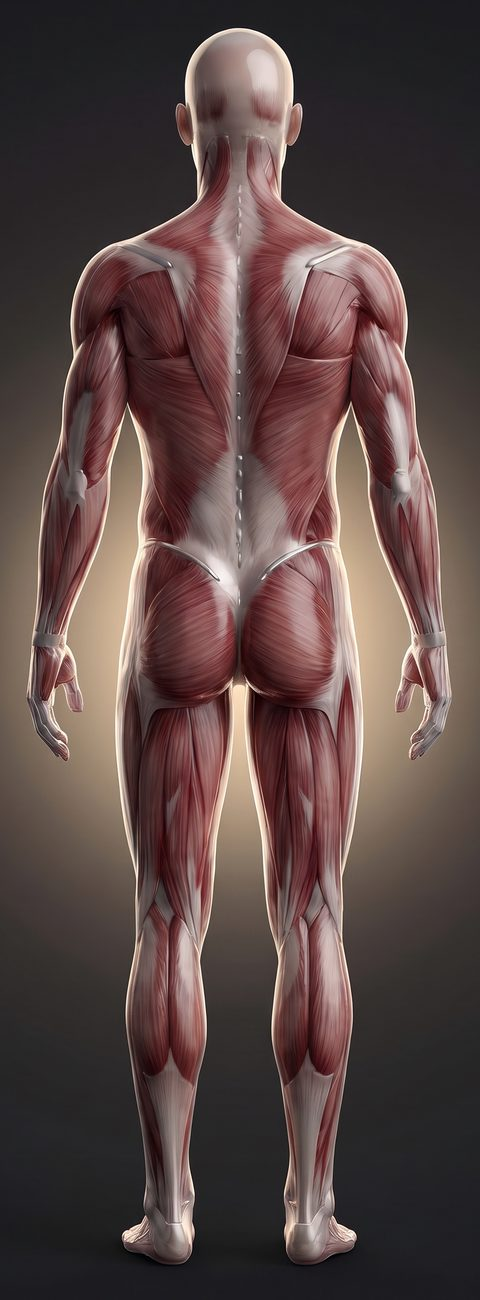
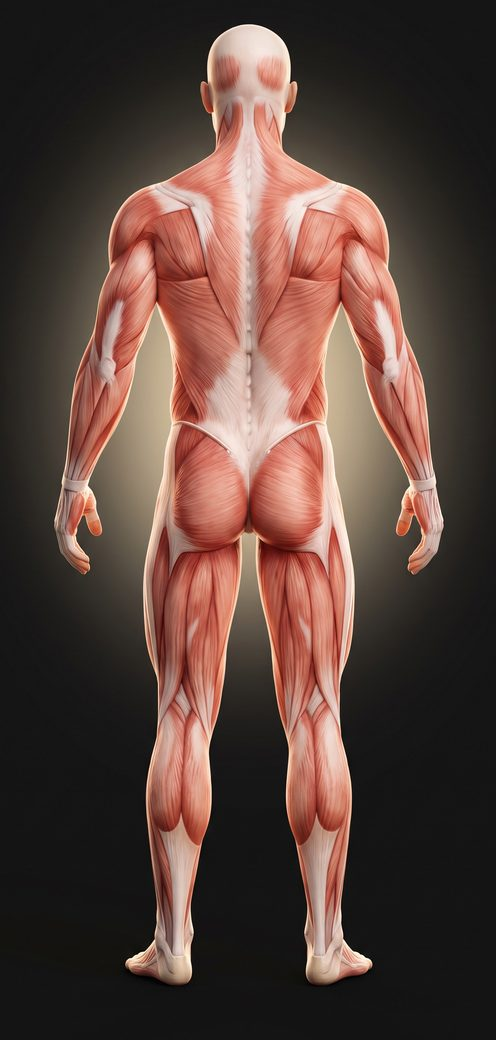
Neue 3D-Figur (Variante 2) mit angepassten Goldflächen
Claude-Session: https://claude.ai/code/session_017HdXHhE1D13B2Q2MsEX58s

diff --git a/app.js b/app.js
@@ -534,29 +534,29 @@ function monthStats(offset) {
   return st;
 }
 
-// Bereiche der 3D-Figur (Koordinaten im Originalbild 1536 × 2752), je Muskelgruppe: [cx, cy, rx, ry, Drehung]
+// Bereiche der 3D-Figur (Koordinaten im Originalbild 1536 × 2752, Ausschnitt ab 150/140), je Muskelgruppe: [cx, cy, rx, ry, Drehung]
 const ZONES = {
   front: {
-    trapez: [[660, 575, 60, 32, -20], [880, 575, 60, 32, 20]],
-    schultern: [[495, 690, 70, 112, 12], [1045, 690, 70, 112, -12]],
-    brust: [[655, 718, 128, 98, 0], [885, 718, 128, 98, 0]],
-    bizeps: [[490, 885, 48, 112, 8], [1050, 885, 48, 112, -8]],
-    unterarme: [[430, 1160, 50, 148, 10], [1110, 1160, 50, 148, -10]],
-    bauch: [[767, 1035, 98, 220, 0]],
-    obliques: [[608, 1065, 48, 130, -6], [930, 1065, 48, 130, 6]],
-    quads: [[640, 1625, 98, 255, -3], [900, 1625, 98, 255, 3]],
-    waden: [[600, 2140, 42, 160, 0], [940, 2140, 42, 160, 0]],
+    trapez: [[650, 560, 60, 34, -20], [885, 560, 60, 34, 20]],
+    schultern: [[480, 700, 70, 115, 15], [1060, 700, 70, 115, -15]],
+    brust: [[650, 750, 120, 110, 0], [885, 750, 120, 110, 0]],
+    bizeps: [[460, 890, 50, 115, 15], [1075, 890, 50, 115, -15]],
+    unterarme: [[375, 1160, 55, 165, 22], [1160, 1160, 55, 165, -22]],
+    bauch: [[766, 1090, 105, 235, 0]],
+    obliques: [[600, 1060, 48, 150, -6], [935, 1060, 48, 150, 6]],
+    quads: [[630, 1700, 110, 270, -3], [905, 1700, 110, 270, 3]],
+    waden: [[600, 2200, 75, 170, 0], [935, 2200, 75, 170, 0]],
   },
   back: {
-    trapez: [[770, 640, 150, 175, 0]],
-    hschulter: [[490, 700, 66, 92, 10], [1050, 700, 66, 92, -10]],
-    ruecken: [[640, 965, 112, 195, 4], [900, 965, 112, 195, -4], [612, 745, 70, 55, 0], [928, 745, 70, 55, 0]],
-    ruecken_u: [[770, 1110, 88, 112, 0]],
-    trizeps: [[490, 885, 50, 118, 8], [1050, 885, 50, 118, -8]],
-    unterarme: [[430, 1180, 50, 150, 10], [1110, 1180, 50, 150, -10]],
-    gesaess: [[665, 1372, 118, 142, 0], [875, 1372, 118, 142, 0]],
-    beinbeuger: [[640, 1725, 86, 232, -2], [900, 1725, 86, 232, 2]],
-    waden: [[625, 2110, 76, 172, 0], [915, 2110, 76, 172, 0]],
+    trapez: [[770, 660, 160, 190, 0]],
+    hschulter: [[480, 700, 65, 95, 12], [1055, 700, 65, 95, -12]],
+    ruecken: [[640, 960, 110, 190, 4], [900, 960, 110, 190, -4], [610, 760, 75, 60, 0], [925, 760, 75, 60, 0]],
+    ruecken_u: [[770, 1130, 90, 110, 0]],
+    trizeps: [[465, 900, 52, 125, 12], [1075, 900, 52, 125, -12]],
+    unterarme: [[380, 1180, 55, 155, 18], [1160, 1180, 55, 155, -18]],
+    gesaess: [[680, 1360, 115, 140, 0], [860, 1360, 115, 140, 0]],
+    beinbeuger: [[640, 1730, 100, 230, -2], [915, 1730, 100, 230, 2]],
+    waden: [[610, 2110, 85, 175, 0], [945, 2110, 85, 175, 0]],
   },
 };
 
@@ -571,7 +571,7 @@ function bodyView(side, glowOf, f = 1, cls = '') {
   const label = side === 'front' ? 'Vorderseite' : 'Rückseite';
   return `<div class="body3d ${cls}" style="--sx:${f}" role="img" aria-label="${label}">
     <img src="body-${side}.jpg" alt="" loading="lazy" decoding="async">
-    <svg viewBox="290 100 960 2600" aria-hidden="true">
+    <svg viewBox="150 140 1240 2600" aria-hidden="true">
       <g class="glow-tint">${shapes}</g><g class="glow-light">${shapes}</g></svg></div>`;
 }
 

diff --git a/styles.css b/styles.css
@@ -190,7 +190,7 @@ main { padding: 6px 16px 24px; }
 .figure figure { margin: 0; text-align: center; }
 .figure .body3d { width: 100%; max-width: 170px; margin: 0 auto 4px; }
 .figure figcaption { font-size: 12px; color: var(--plat-dim); letter-spacing: .06em; text-transform: uppercase; }
-.body3d { position: relative; aspect-ratio: 960 / 2600; transform: scaleX(var(--sx, 1)); transition: transform .5s; }
+.body3d { position: relative; aspect-ratio: 1240 / 2600; transform: scaleX(var(--sx, 1)); transition: transform .5s; }
 .body3d img, .body3d svg { position: absolute; inset: 0; width: 100%; height: 100%; display: block; }
 .body3d img { border-radius: 10px; }
 /* Gold färbt den Muskel ein und lässt ihn leuchten */

diff --git a/sw.js b/sw.js
@@ -1,5 +1,5 @@
 // Offline-Cache. Bei Änderungen an den Dateien die Versionsnummer erhöhen.
-const CACHE = 'gym-buddy-v14';
+const CACHE = 'gym-buddy-v15';
 const FILES = [
   './', 'index.html', 'styles.css', 'data.js', 'app.js', 'manifest.webmanifest',
   'icon.svg', 'apple-touch-icon.png', 'icon-192.png', 'icon-512.png', 'body-front.jpg', 'body-back.jpg',
